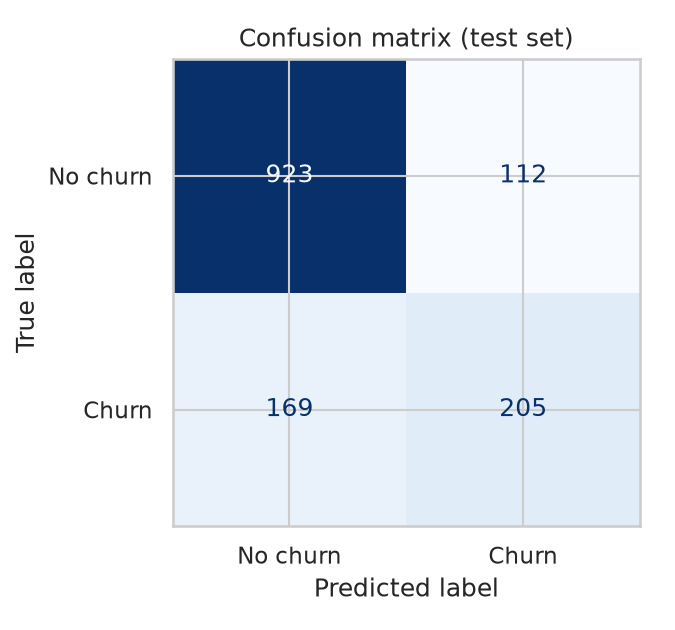
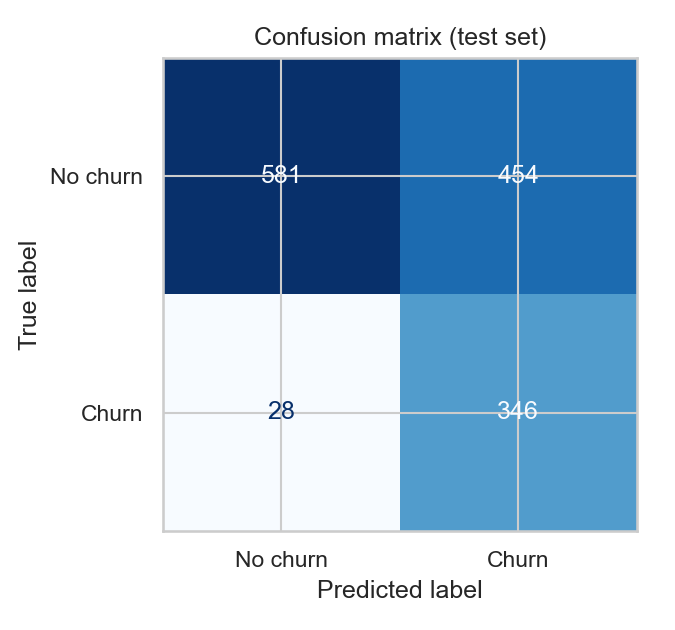
refactored the files and fixed errors

diff --git a/src/setup.py b/src/setup.py
@@ -19,7 +19,7 @@ CATEGORY_COLUMNS = [
     "Contract", "PaperlessBilling", "PaymentMethod",
 ]
 
-SCORING = ["accuracy", "f1", "roc_auc"]
+SCORING = ["accuracy", "f1", "roc_auc", "average_precision"]
 
 
 def load_and_clean(path=DATA_PATH):
@@ -27,6 +27,8 @@ def load_and_clean(path=DATA_PATH):
     TotalCharges stored as text, and the target stored as Yes/No instead of 1/0."""
     df = pd.read_csv(path)
     df["TotalCharges"] = pd.to_numeric(df["TotalCharges"], errors="coerce")
+    # Blank TotalCharges occur for customers with tenure == 0; they have not accumulated charges.
+    df["TotalCharges"] = df["TotalCharges"].fillna(0)
     df = df.drop(columns=["customerID"])
     df["Churn"] = (df["Churn"] == "Yes").astype(int)
     return df
@@ -67,6 +69,7 @@ def evaluate(model, name, X_train, y_train, preprocessing, cv):
     row = {"model": name}
     for score_name in SCORING:
         scores = results["test_" + score_name]
-        row[score_name + " (mean)"] = round(scores.mean(), 3)
-        row[score_name + " (spread)"] = round(scores.std(), 3)
+        display_name = "PR-AUC (average precision)" if score_name == "average_precision" else score_name
+        row[display_name + " (mean)"] = round(scores.mean(), 3)
+        row[display_name + " (spread)"] = round(scores.std(), 3)
     return row

diff --git a/README.md b/README.md
@@ -45,10 +45,17 @@ customers early enough to try to keep them.
 
 Notebooks assume they are opened from inside `notebooks/`.
 
-## Status
+## Updated workflow
 
-- [x] 01 data loading, pipeline, baseline
-- [ ] 02 four models with cross-validation
-- [ ] 03 tuning and comparison
-- [ ] 04 error and subgroup analysis
-- [ ] 05 save and reload best pipeline
+1. `01_data_pipeline_baseline.ipynb`: reusable data loading, summary statistics, duplicate and missing-value checks, target imbalance, training-set EDA, preprocessing explanation, and a majority-class baseline.
+2. `02_model_comparison.ipynb`: four model families evaluated using the same stratified cross-validation folds; PR-AUC (average precision) is reported alongside F1, ROC-AUC and accuracy. Class weighting is used where supported.
+3. `03_tuning_and_final_model.ipynb`: tunes Logistic Regression and Random Forest using PR-AUC, selects a threshold from out-of-fold training probabilities using F2, and evaluates on the held-out test set.
+4. `04_error_and_subgroup_analysis.ipynb`: evaluates errors and subgroup recall at the selected style of threshold and adds permutation importance and confident-error review.
+5. `05_save_and_reload_pipeline.ipynb`: saves and reloads the full pipeline together with its threshold, input schema, selected parameters, selection metric, random seed and scikit-learn version.
+
+Run notebooks from inside the `notebooks/` directory, in order. Model scores may change after these methodological improvements; use the newly executed notebook outputs rather than carrying forward old score claims. The assumed business costs of missed churners and retention offers are not provided, so F2 is used as a transparent provisional threshold-selection objective, not as a proven financial optimum.
+
+
+## Important before submission
+
+Re-run notebooks 01–05 from top to bottom after installing `requirements.txt`. This refreshes outputs and regenerates `models/final_pipeline.joblib` with the new threshold and metadata. Do not present the old saved model or old score figures as the results of the updated workflow until notebook 05 has been rerun.
